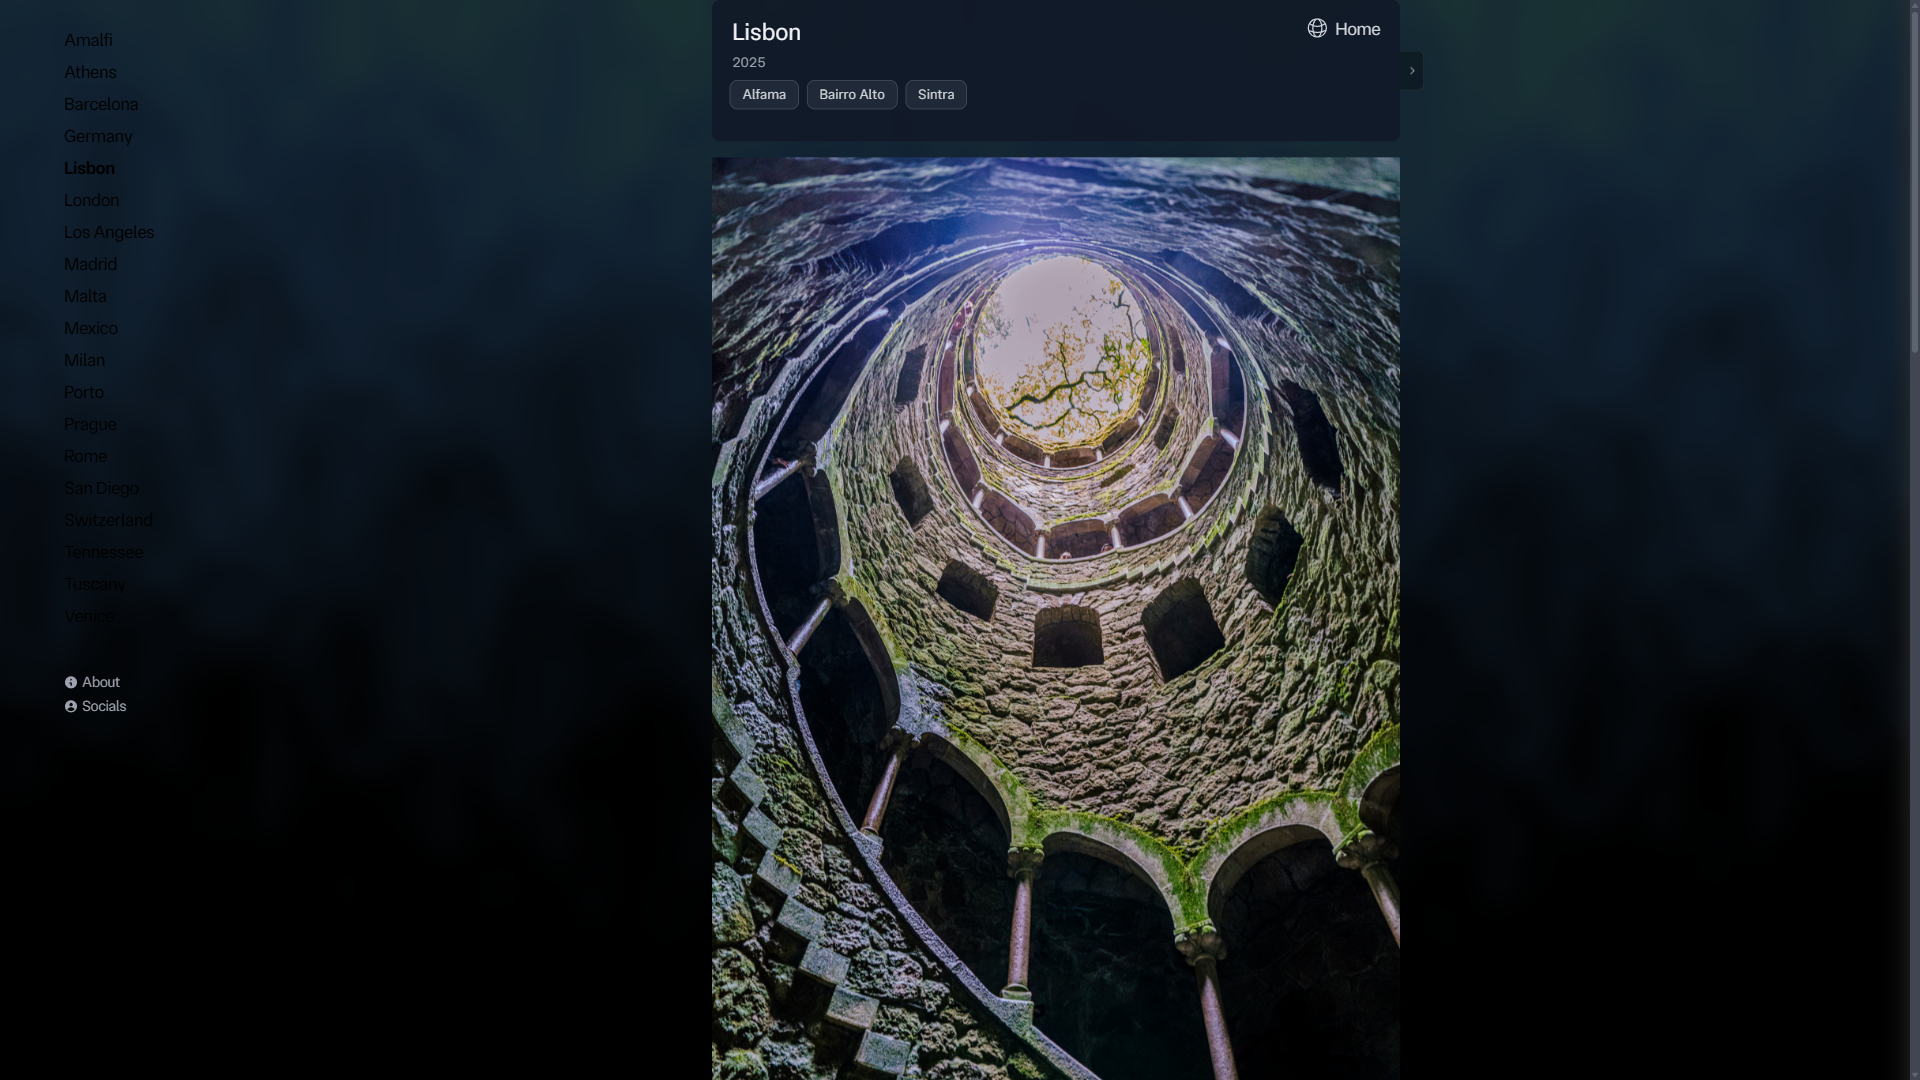
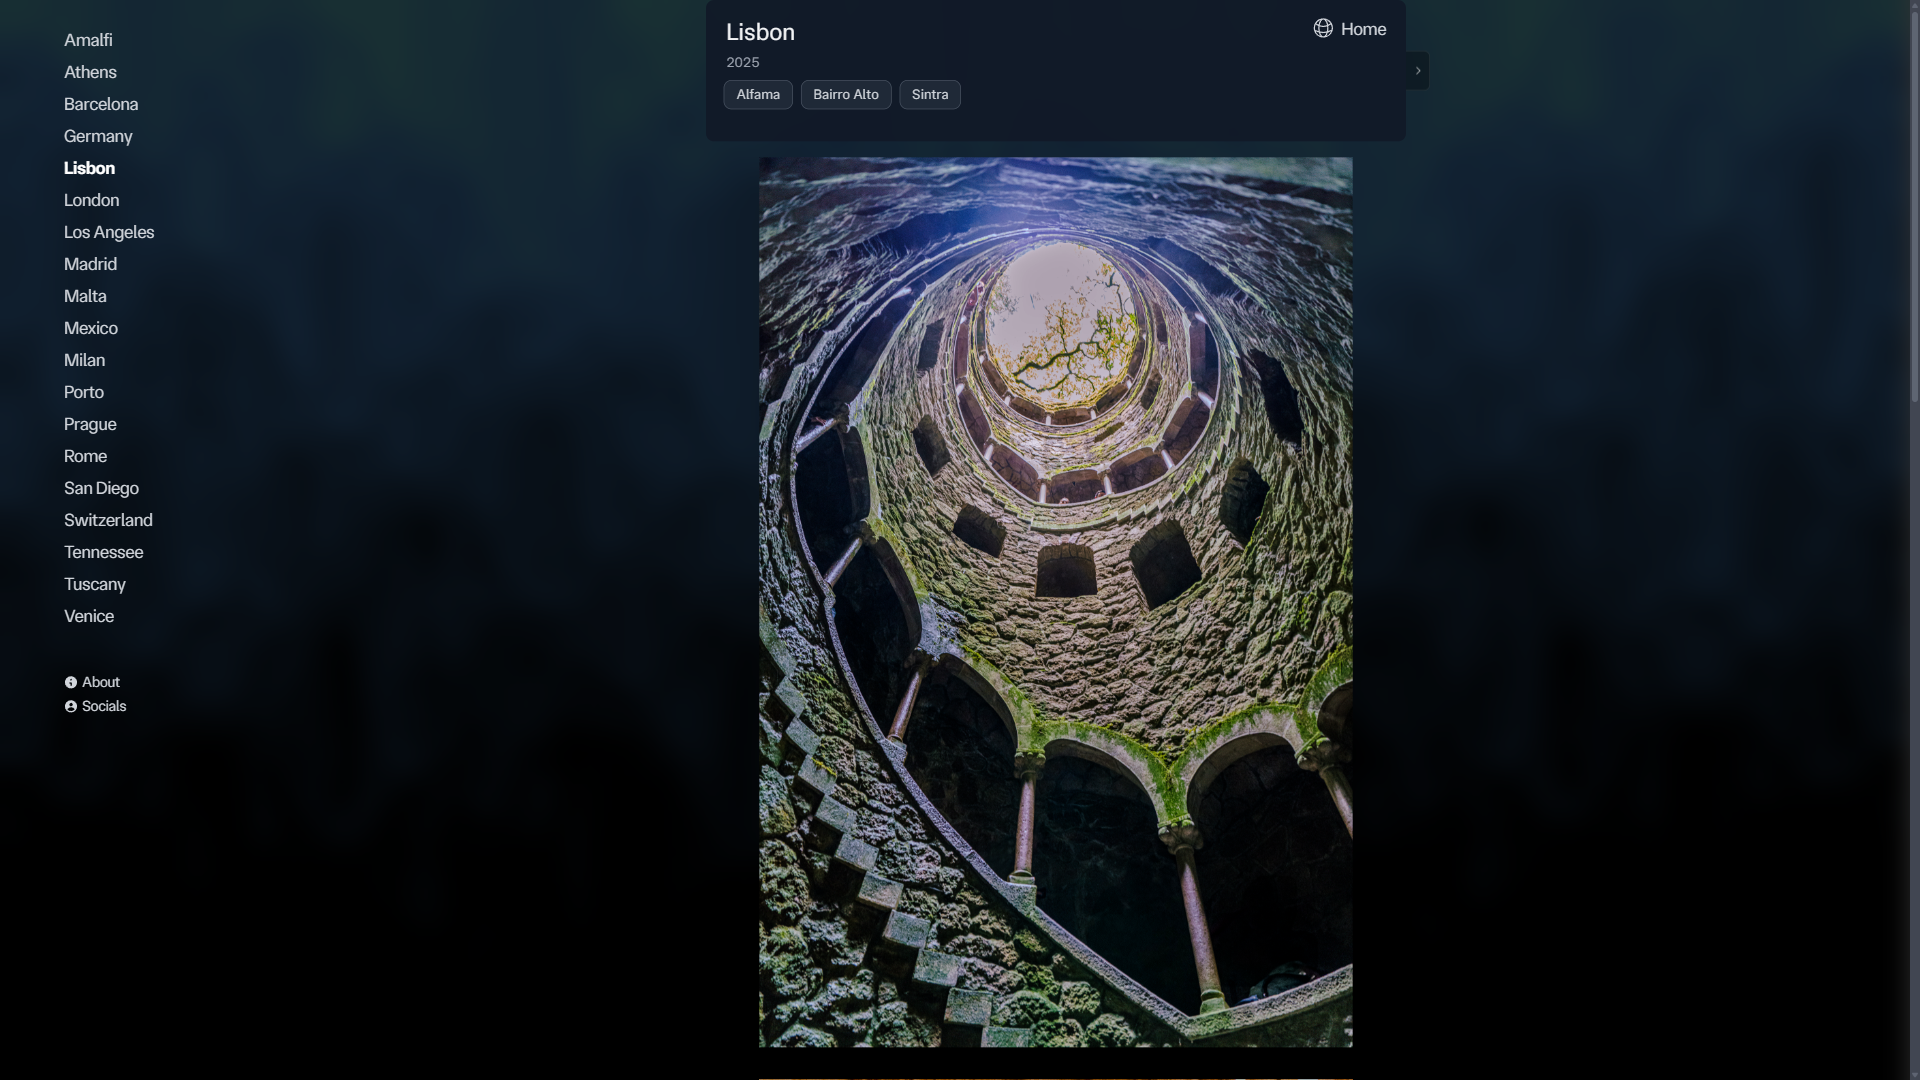
Make nav text readable on dark pages and remove about screenshot

diff --git a/src/lib/nav.tsx b/src/lib/nav.tsx
@@ -60,7 +60,7 @@ export const Nav: React.FC<{
         <h1 className="mb-10 max-sm:flex max-sm:justify-center">
           <Link
             href="/"
-            className={`hover:text-red-600 font-bold flex items-center gap-2 leading-none tracking-tight duration-200 ease-in-out transition-colors`}
+            className={`text-gray-200 hover:text-red-600 font-bold flex items-center gap-2 leading-none tracking-tight duration-200 ease-in-out transition-colors`}
           >
             <GlobeIcon />
             <span className="sm:hidden">Home</span>
@@ -91,7 +91,7 @@ export const Nav: React.FC<{
               <Link
                 href={`/${titleToSlug(album.title)}`}
                 className={`block py-0.5 transition-colors duration-200 ${
-                  isActive ? 'font-bold' : 'hover:text-gray-400'
+                  isActive ? 'font-bold text-white' : 'text-gray-300 hover:text-white'
                 }`}
                 prefetch={false}
               >
@@ -106,7 +106,7 @@ export const Nav: React.FC<{
               <Link
                 href="/about"
                 prefetch={false}
-                className="flex gap-1 items-center text-2xl sm:leading-5 sm:text-[15px] text-gray-400 hover:text-gray-500"
+                className="flex gap-1 items-center text-2xl sm:leading-5 sm:text-[15px] text-gray-300 hover:text-white"
               >
                 <InfoIcon />
                 About
@@ -116,7 +116,7 @@ export const Nav: React.FC<{
               <Link
                 href="/about"
                 prefetch={false}
-                className="flex gap-1 items-center text-2xl sm:leading-5 sm:text-[15px] text-gray-400 hover:text-gray-500"
+                className="flex gap-1 items-center text-2xl sm:leading-5 sm:text-[15px] text-gray-300 hover:text-white"
               >
                 <SocialIcon />
                 Socials

diff --git a/README.md b/README.md
@@ -12,10 +12,6 @@ An album page with the photo gallery:
 
 ![Lisbon album page with a single column photo gallery](docs/screenshots/album.png)
 
-The about page:
-
-![About page with the small spinning globe](docs/screenshots/about.png)
-
 ## Features
 
 * A 3D globe that spins, with clickable locations